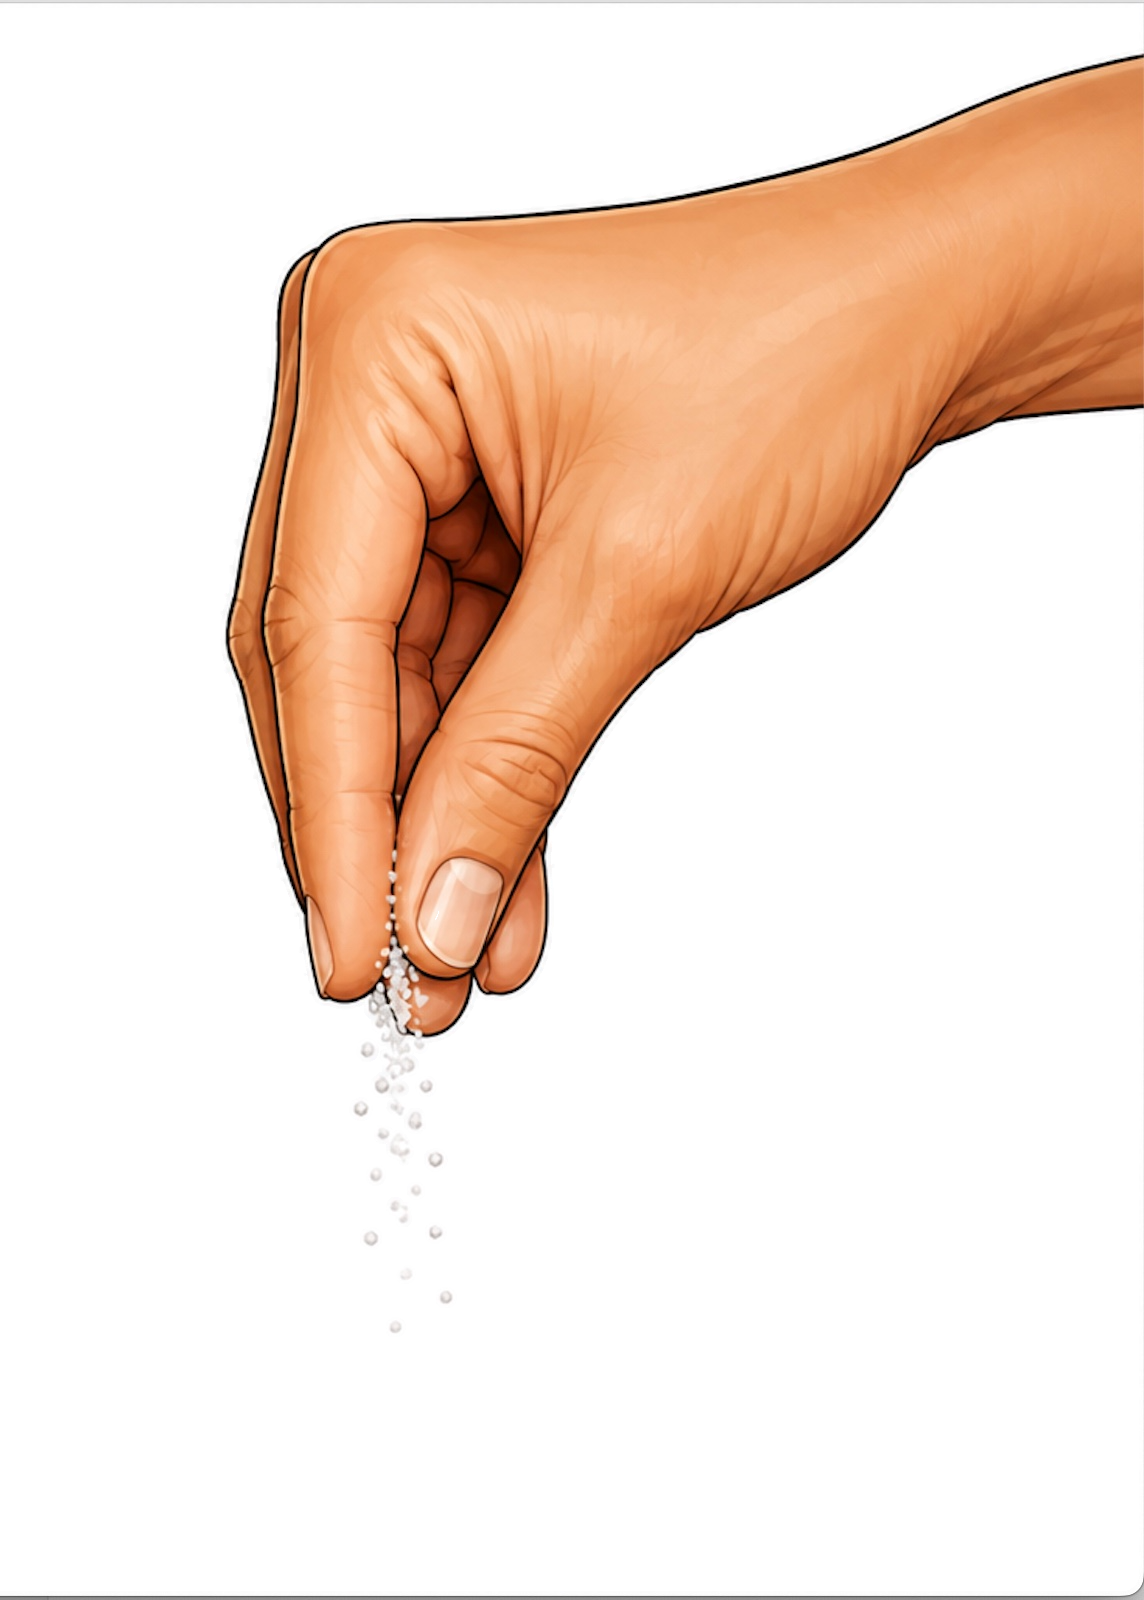
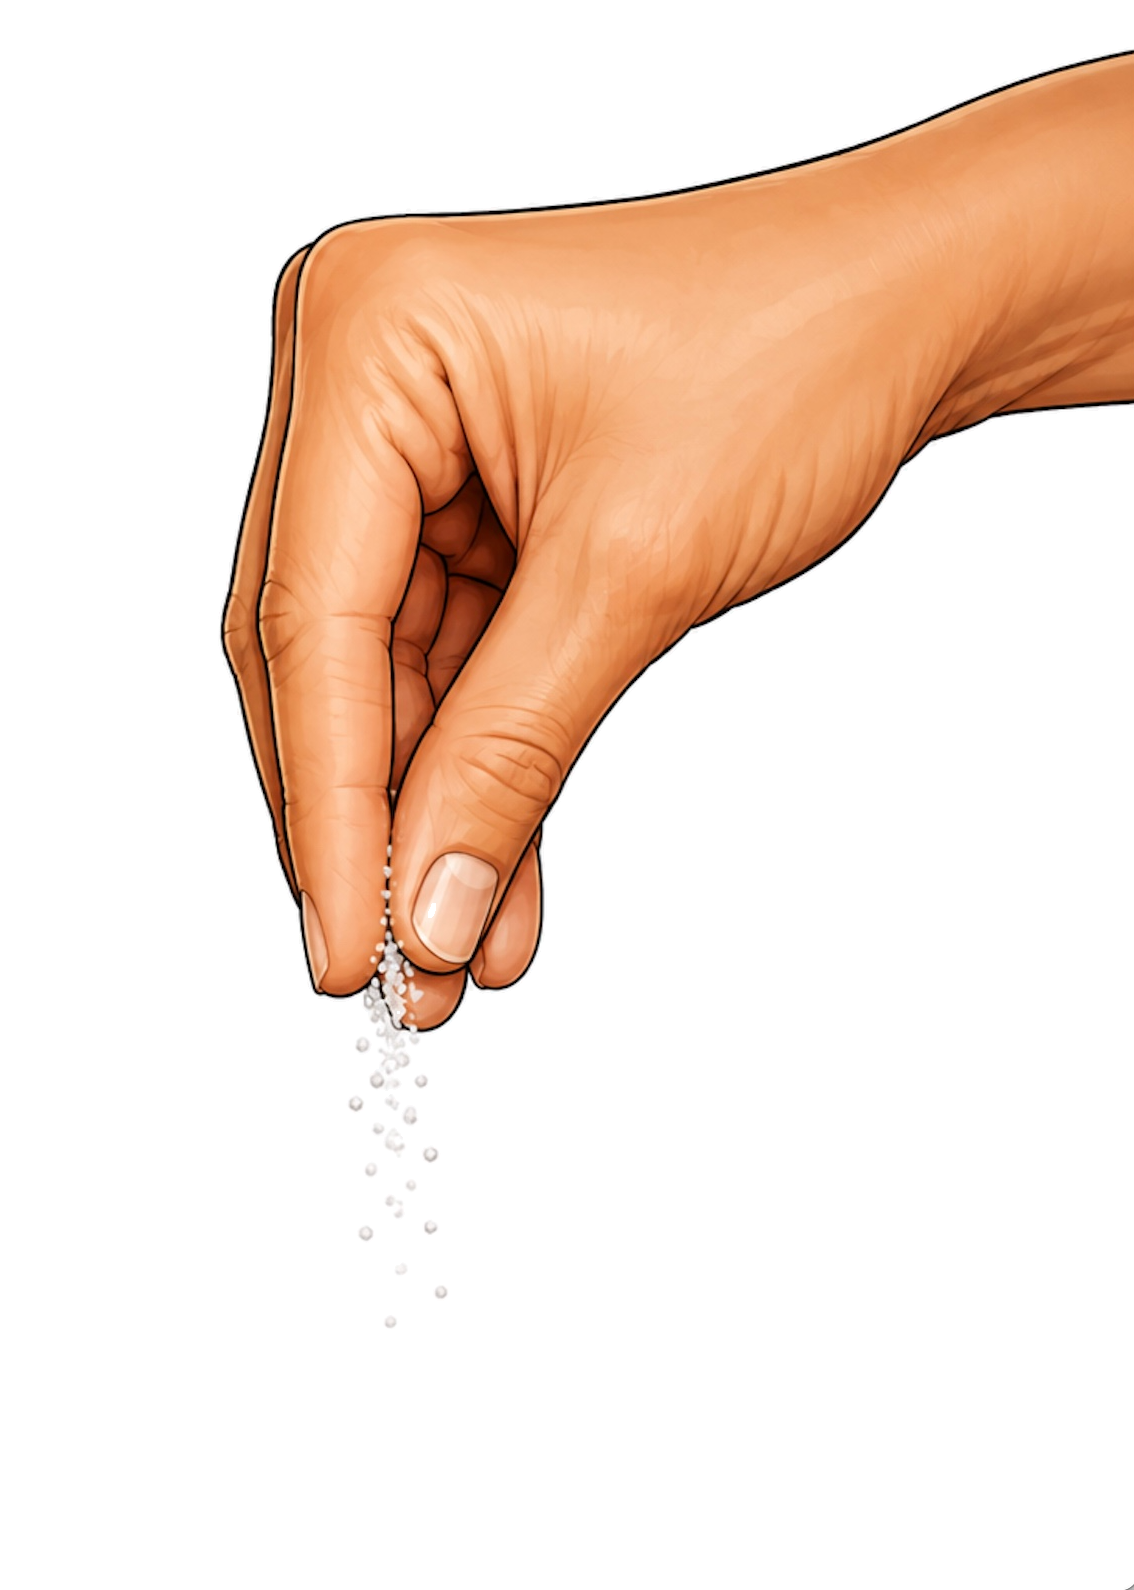
Update product cards: eroded alpha edges, new descriptions, SafeSalt CTA
- Reprocess all three product images with 2px alpha erosion (MinFilter)
  to remove white fringe halo against navy background
- hand-salt: crop 5px edges + local-variance method for salt grain detail
- Update product descriptions for SafeSalt, SafeSupplements, SafeHydrate
- Change hero CTA from internal "Explore the Science" scroll to external
  "Explore SafeSalt" link to safesalt.health

diff --git a/app/HomeClient.tsx b/app/HomeClient.tsx
@@ -247,9 +247,12 @@ function Hero({ isHSN }: { isHSN: boolean }) {
             : "Health Science Nutritionals, PBC develops physician-formulated products for patients, practitioners, and health systems who won\u2019t accept less than clinical-grade."}
         </p>
 
-        <button
-          onClick={() => scrollTo("science")}
+        <a
+          href="https://safesalt.health"
+          target="_blank"
+          rel="noopener noreferrer"
           style={{
+            display: "inline-block",
             background: C.navy,
             color: C.white,
             border: "none",
@@ -259,14 +262,14 @@ function Hero({ isHSN }: { isHSN: boolean }) {
             fontWeight: 600,
             letterSpacing: "0.03em",
             fontFamily: F.base,
-            cursor: "pointer",
+            textDecoration: "none",
             transition: "opacity 0.15s",
           }}
           onMouseEnter={(e) => (e.currentTarget.style.opacity = "0.85")}
           onMouseLeave={(e) => (e.currentTarget.style.opacity = "1")}
         >
-          Explore the Science →
-        </button>
+          Explore SafeSalt →
+        </a>
       </div>
     </section>
   );
@@ -389,19 +392,19 @@ function Products() {
         <div style={{ display: "grid", gridTemplateColumns: isMobile ? "1fr" : "repeat(3, 1fr)", gap: 28 }}>
           <ProductCard
             name="SafeSalt™"
-            description="Precision electrolyte seasoning engineered around your Na:K ratio. Not table salt. Not a supplement. A new category."
+            description="The first salt engineered to protect, not just season. Tastes exactly like salt in blind taste tests — with zero added potassium, unlike typical substitutes that can pose real risk for those with kidney disease. Patent-pending formulation. Not a substitute. A new leader."
             href="safesalt.health"
             imagePath="/images/hand-salt.png"
           />
           <ProductCard
             name="SafeSupplements™"
-            description="Targeted mineral protocols formulated by a physician. Each product built around a clinical insight, not a marketing brief."
+            description="Formulated by a physician, not a trend. Each protocol traces back to a specific clinical insight — not a supplement-aisle template stacked with unproven ingredients. Every SafeSupplements formula answers a documented physiological need. Not a stack. A protocol."
             href="safesupplements.health"
             imagePath="/images/hand-supplement.png"
           />
           <ProductCard
             name="SafeHydrate™"
-            description="Performance hydration built on the science of sodium and potassium balance. For athletes and the rigorously health-conscious."
+            description="Hydration built on the same science behind SafeSalt. Engineered around your actual sodium-potassium balance — not sugar, not artificial flavoring, not marketing claims dressed up as electrolytes. For athletes and the rigorously health-conscious. Not a sports drink. A recalibration."
             href="safehydrate.health"
             imagePath="/images/hand-hydrate.png"
           />
